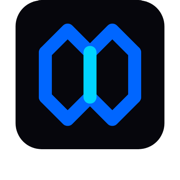
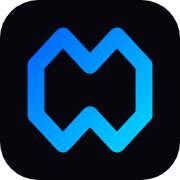
marca, imagem de partilha e fotos na demo
Assets gerados pelo Matheus, escolhidos e montados.

- Marca MW: das tres variacoes, a terceira e a unica onde se leem mesmo as duas
  letras (W em cima, M em baixo, presas por duas barras). Entra no cabecalho
  da home em /brand/mw-mark.png.
- Favicon: o mesmo desenho em traco, em SVG com o gradiente da marca. Aos 16 px
  o ziguezague do original vira mancha, por isso a versao de icone e a
  simplificada — e todos os PNG (16, 32, 180, 512) saem desse mesmo SVG, para
  nao haver duas marcas a circular.
- Imagem de partilha: fundo gerado + a marca + o titulo, composto em HTML e
  fotografado a 1200x630 (/og.jpg, 55 KB). Fica em espanhol porque e o mercado
  da campanha que subiu hoje. O og-image.png antigo saiu; o ficheiro novo tem
  nome novo de proposito, para as redes nao servirem a versao em cache.
- Demo: a estrela da Nitida passa a SVG (aparece a 20 px no cabecalho e grande
  no rodape), entra uma banda de foto com parallax ligado ao scroll depois das
  garantias, e a cozinha fica colada ao lado das perguntas.
- ?plano=1 passa a fixar a altura da banda em pixeis: numa captura de pagina
  inteira, 62vh dava uma banda de tres metros.

Claude-Session: https://claude.ai/code/session_01V9TM9NPWRrb2dHXtQE3oLQ

diff --git a/src/pages/EjemploLimpieza.tsx b/src/pages/EjemploLimpieza.tsx
@@ -60,11 +60,21 @@ const CSS = `
 }
 `;
 
+/* A estrela de quatro pontas da marca, vazada ao centro. Vai em SVG e não em
+   imagem porque aparece a 20 px no cabeçalho e a 200 px no rodapé. */
+function Estrela({ className, cor = "currentColor" }: { className?: string; cor?: string }) {
+  return (
+    <svg viewBox="0 0 100 100" className={className} fill={cor} fillRule="evenodd" aria-hidden="true">
+      <path d="M50 2 Q54.5 45.5 98 50 Q54.5 54.5 50 98 Q45.5 54.5 2 50 Q45.5 45.5 50 2 Z M50 30 Q52 48 70 50 Q52 52 50 70 Q48 52 30 50 Q48 48 50 30 Z" />
+    </svg>
+  );
+}
+
 function Marca({ claro = false }: { claro?: boolean }) {
   return (
     <span className="flex items-center gap-2">
       <span className="grid h-8 w-8 place-items-center rounded-lg" style={{ background: VERDE }}>
-        <Sparkles className="h-4 w-4 text-white" aria-hidden="true" />
+        <Estrela className="h-[18px] w-[18px]" cor="#fff" />
       </span>
       <span className="font-display text-[19px] font-bold tracking-[-0.02em]" style={{ color: claro ? "#fff" : TINTA }}>
         Nítida
@@ -188,6 +198,40 @@ function PassoFixo({
         <p className="mt-2 max-w-[44ch] text-[15px] leading-6 text-white/55 md:text-[17px] md:leading-7">{passo.d}</p>
       </div>
     </motion.div>
+  );
+}
+
+/* Banda de foto a toda a largura, com parallax. A imagem entra mais alta do
+   que a janela e desliza devagar: e o unico sitio desta pagina onde uma foto
+   faz falta, por isso leva cuidado a mais. */
+function BandaFoto({ src, alt, legenda }: { src: string; alt: string; legenda: string }) {
+  const ref = useRef<HTMLDivElement>(null);
+  const semMovimento = useReducedMotion();
+  const { scrollYProgress } = useScroll({ target: ref, offset: ["start end", "end start"] });
+  const y = useTransform(scrollYProgress, [0, 1], ["-8%", "8%"]);
+  return (
+    <section
+      ref={ref}
+      /* Em ?plano=1 a altura vai em pixeis: a captura de pagina inteira usa uma
+         janela de milhares de pixeis, e 62vh dava uma banda de tres metros. */
+      className={`relative overflow-hidden ${PLANO ? "h-[420px]" : "h-[46vh] min-h-[280px] md:h-[62vh]"}`}
+    >
+      <motion.img
+        src={src}
+        alt={alt}
+        loading="lazy"
+        decoding="async"
+        style={{ y: semMovimento ? 0 : y }}
+        className="absolute inset-0 h-[118%] w-full object-cover"
+      />
+      <span
+        aria-hidden="true"
+        className="pointer-events-none absolute inset-x-0 bottom-0 h-1/2 bg-gradient-to-b from-transparent to-black/45"
+      />
+      <p className="absolute bottom-6 left-0 right-0 mx-auto max-w-6xl px-5 text-[14px] font-medium text-white/85 md:bottom-8 md:text-[16px]">
+        {legenda}
+      </p>
+    </section>
   );
 }
 
@@ -431,6 +475,13 @@ export default function EjemploLimpieza() {
             </div>
           </section>
 
+          {/* UMA IMAGEM, EM BANDA. Parallax ligado ao scroll (nada de tempo). */}
+          <BandaFoto
+            src="/work/nitida-sala.webp"
+            alt="Salón luminoso y recogido después de una limpieza"
+            legenda="Así queda un salón después de una visita nuestra"
+          />
+
           {/* SERVIÇOS */}
           <section className="mx-auto max-w-6xl px-5 py-16 md:py-24">
             <TituloAceso
@@ -500,17 +551,32 @@ export default function EjemploLimpieza() {
             </div>
           </div>
 
-          {/* PERGUNTAS */}
-          <section className="mx-auto max-w-3xl px-5 py-16 md:py-24">
-            <TituloAceso
-              texto="Preguntas frecuentes"
-              className="font-display text-[34px] font-bold tracking-[-0.03em] md:text-[46px]"
-            />
-            <motion.div {...entra} className="mt-8">
-              {PERGUNTAS.map((q, i) => (
-                <Pergunta key={q.p} p={q.p} r={q.r} aberta={aberta === i} aoAbrir={() => setAberta(aberta === i ? -1 : i)} />
-              ))}
-            </motion.div>
+          {/* PERGUNTAS, com a cozinha ao lado */}
+          <section className="mx-auto max-w-6xl px-5 py-16 md:py-24">
+            <div className="grid gap-10 md:grid-cols-[0.85fr_1.15fr] md:items-start md:gap-14">
+              <motion.div {...entra} className="md:sticky md:top-28">
+                <div className="overflow-hidden rounded-3xl">
+                  <img
+                    src="/work/nitida-cozinha.webp"
+                    alt="Encimera de cocina impecable a contraluz"
+                    loading="lazy"
+                    decoding="async"
+                    className="block aspect-[4/3] w-full object-cover md:aspect-[3/4]"
+                  />
+                </div>
+              </motion.div>
+              <div>
+                <TituloAceso
+                  texto="Preguntas frecuentes"
+                  className="font-display text-[34px] font-bold tracking-[-0.03em] md:text-[46px]"
+                />
+                <motion.div {...entra} className="mt-8">
+                  {PERGUNTAS.map((q, i) => (
+                    <Pergunta key={q.p} p={q.p} r={q.r} aberta={aberta === i} aoAbrir={() => setAberta(aberta === i ? -1 : i)} />
+                  ))}
+                </motion.div>
+              </div>
+            </div>
           </section>
 
           {/* FECHO */}

diff --git a/index.html b/index.html
@@ -23,10 +23,11 @@
       property="og:description"
       content="I build products from the first commit to the first customer. SaaS, mobile apps and marketplaces."
     />
-    <meta property="og:image" content="https://mwdeveloper.tech/og-image.png" />
+    <meta property="og:image" content="https://mwdeveloper.tech/og.jpg" />
     <meta property="og:image:width" content="1200" />
     <meta property="og:image:height" content="630" />
-    <meta property="og:image:alt" content="MW Dev — Full-stack developer building products" />
+    <meta property="og:image:alt" content="MW Dev — páginas web y sistemas a medida" />
+    <meta property="og:image:type" content="image/jpeg" />
     <meta property="og:locale" content="en_US" />
     <meta property="og:locale:alternate" content="pt_BR" />
     <meta property="og:locale:alternate" content="es_ES" />
@@ -37,7 +38,7 @@
       name="twitter:description"
       content="I build products from the first commit to the first customer."
     />
-    <meta name="twitter:image" content="https://mwdeveloper.tech/og-image.png" />
+    <meta name="twitter:image" content="https://mwdeveloper.tech/og.jpg" />
 
     <link rel="preconnect" href="https://fonts.googleapis.com" />
     <link rel="preconnect" href="https://fonts.gstatic.com" crossorigin />
@@ -53,7 +54,7 @@
         "name": "Matheus Wilberstaedt",
         "alternateName": "MW Dev",
         "url": "https://mwdeveloper.tech",
-        "image": "https://mwdeveloper.tech/og-image.png",
+        "image": "https://mwdeveloper.tech/og.jpg",
         "jobTitle": "Full-stack Developer",
         "email": "wilberstaedtt@gmail.com",
         "description": "Solo full-stack developer building SaaS, mobile apps and marketplaces. Sistema Cleaning running in Australia, FourHub in development.",

diff --git a/src/components/brand/MarcaMW.tsx b/src/components/brand/MarcaMW.tsx
@@ -1,0 +1,32 @@
+import { Link } from "react-router-dom";
+
+/**
+ * A MARCA (16/09/2026).
+ *
+ * O monograma é um W em cima de um M, ligados por duas barras — o mesmo
+ * desenho do favicon, mas na versão cheia com o ziguezague. Vem de uma imagem
+ * porque foi assim que o Matheus a escolheu; o favicon é a versão em traço,
+ * que é a que aguenta 16 px.
+ *
+ * `eager` de propósito: está no primeiro ecrã e é pequena (68 KB).
+ */
+export function MarcaMW({ para = "/", className = "" }: { para?: string; className?: string }) {
+  return (
+    <Link
+      to={para}
+      className={`group inline-flex items-center gap-2.5 ${className}`}
+      aria-label="MW Dev"
+    >
+      <img
+        src="/brand/mw-mark.png"
+        alt=""
+        width={30}
+        height={30}
+        loading="eager"
+        decoding="async"
+        className="h-[26px] w-[26px] shrink-0 transition-transform duration-300 ease-[cubic-bezier(.05,.7,.1,1)] group-hover:scale-110 md:h-[30px] md:w-[30px]"
+      />
+      <span className="font-mono text-[13px] font-semibold tracking-[0.14em] text-text-bright">MW DEV</span>
+    </Link>
+  );
+}

diff --git a/src/pages/Inicio.tsx b/src/pages/Inicio.tsx
@@ -5,6 +5,7 @@ import { ArrowRight } from "lucide-react";
 import { contact } from "@/data/contact";
 import { INICIO, type LinguaInicio } from "@/data/inicio";
 import { LanguageSwitcher } from "@/components/ui/LanguageSwitcher";
+import { MarcaMW } from "@/components/brand/MarcaMW";
 import { CinemaHero } from "@/components/sections/CinemaHero";
 import { CinemaFatura } from "@/components/sections/CinemaFatura";
 import { CinemaAgenda } from "@/components/sections/CinemaAgenda";
@@ -38,7 +39,7 @@ export default function Inicio() {
     <div className="min-h-screen bg-void text-text">
       <header className="border-b border-border">
         <div className="mx-auto flex h-16 max-w-5xl items-center justify-between gap-4 px-5">
-          <span className="font-mono text-[13px] font-semibold tracking-[0.14em] text-text-bright">MW DEV</span>
+          <MarcaMW />
           <div className="flex items-center gap-4">
             <Link to="/cv" className="text-[13px] font-semibold text-text-dim hover:text-text-bright">CV</Link>
             <LanguageSwitcher />

diff --git a/src/components/sections/CinemaLanding.tsx b/src/components/sections/CinemaLanding.tsx
@@ -87,10 +87,17 @@ function Ecra({
   useEffect(() => {
     const el = caixa.current;
     if (!el) return;
+    /* offsetWidth/offsetHeight e não getBoundingClientRect(): o rect vem já
+       deformado pelas transformações dos antepassados, e este ecrã vive dentro
+       da tampa que roda. Medido a 16/09 com a tampa fechada, o rect dava 8 px
+       de altura e o iframe ficava com 86 px de viewport — daí só pintar a
+       primeira faixa. O ResizeObserver também não salvava: uma rotação não
+       muda o layout, por isso nunca voltava a disparar. */
     const medir = () => {
-      const { width, height } = el.getBoundingClientRect();
-      if (!width || !height) return;
-      setMedida({ escala: width / logica, altura: Math.round((height / width) * logica) });
+      const largura = el.offsetWidth;
+      const altura = el.offsetHeight;
+      if (!largura || !altura) return;
+      setMedida({ escala: largura / logica, altura: Math.round((altura / largura) * logica) });
     };
     medir();
     const ro = new ResizeObserver(medir);
